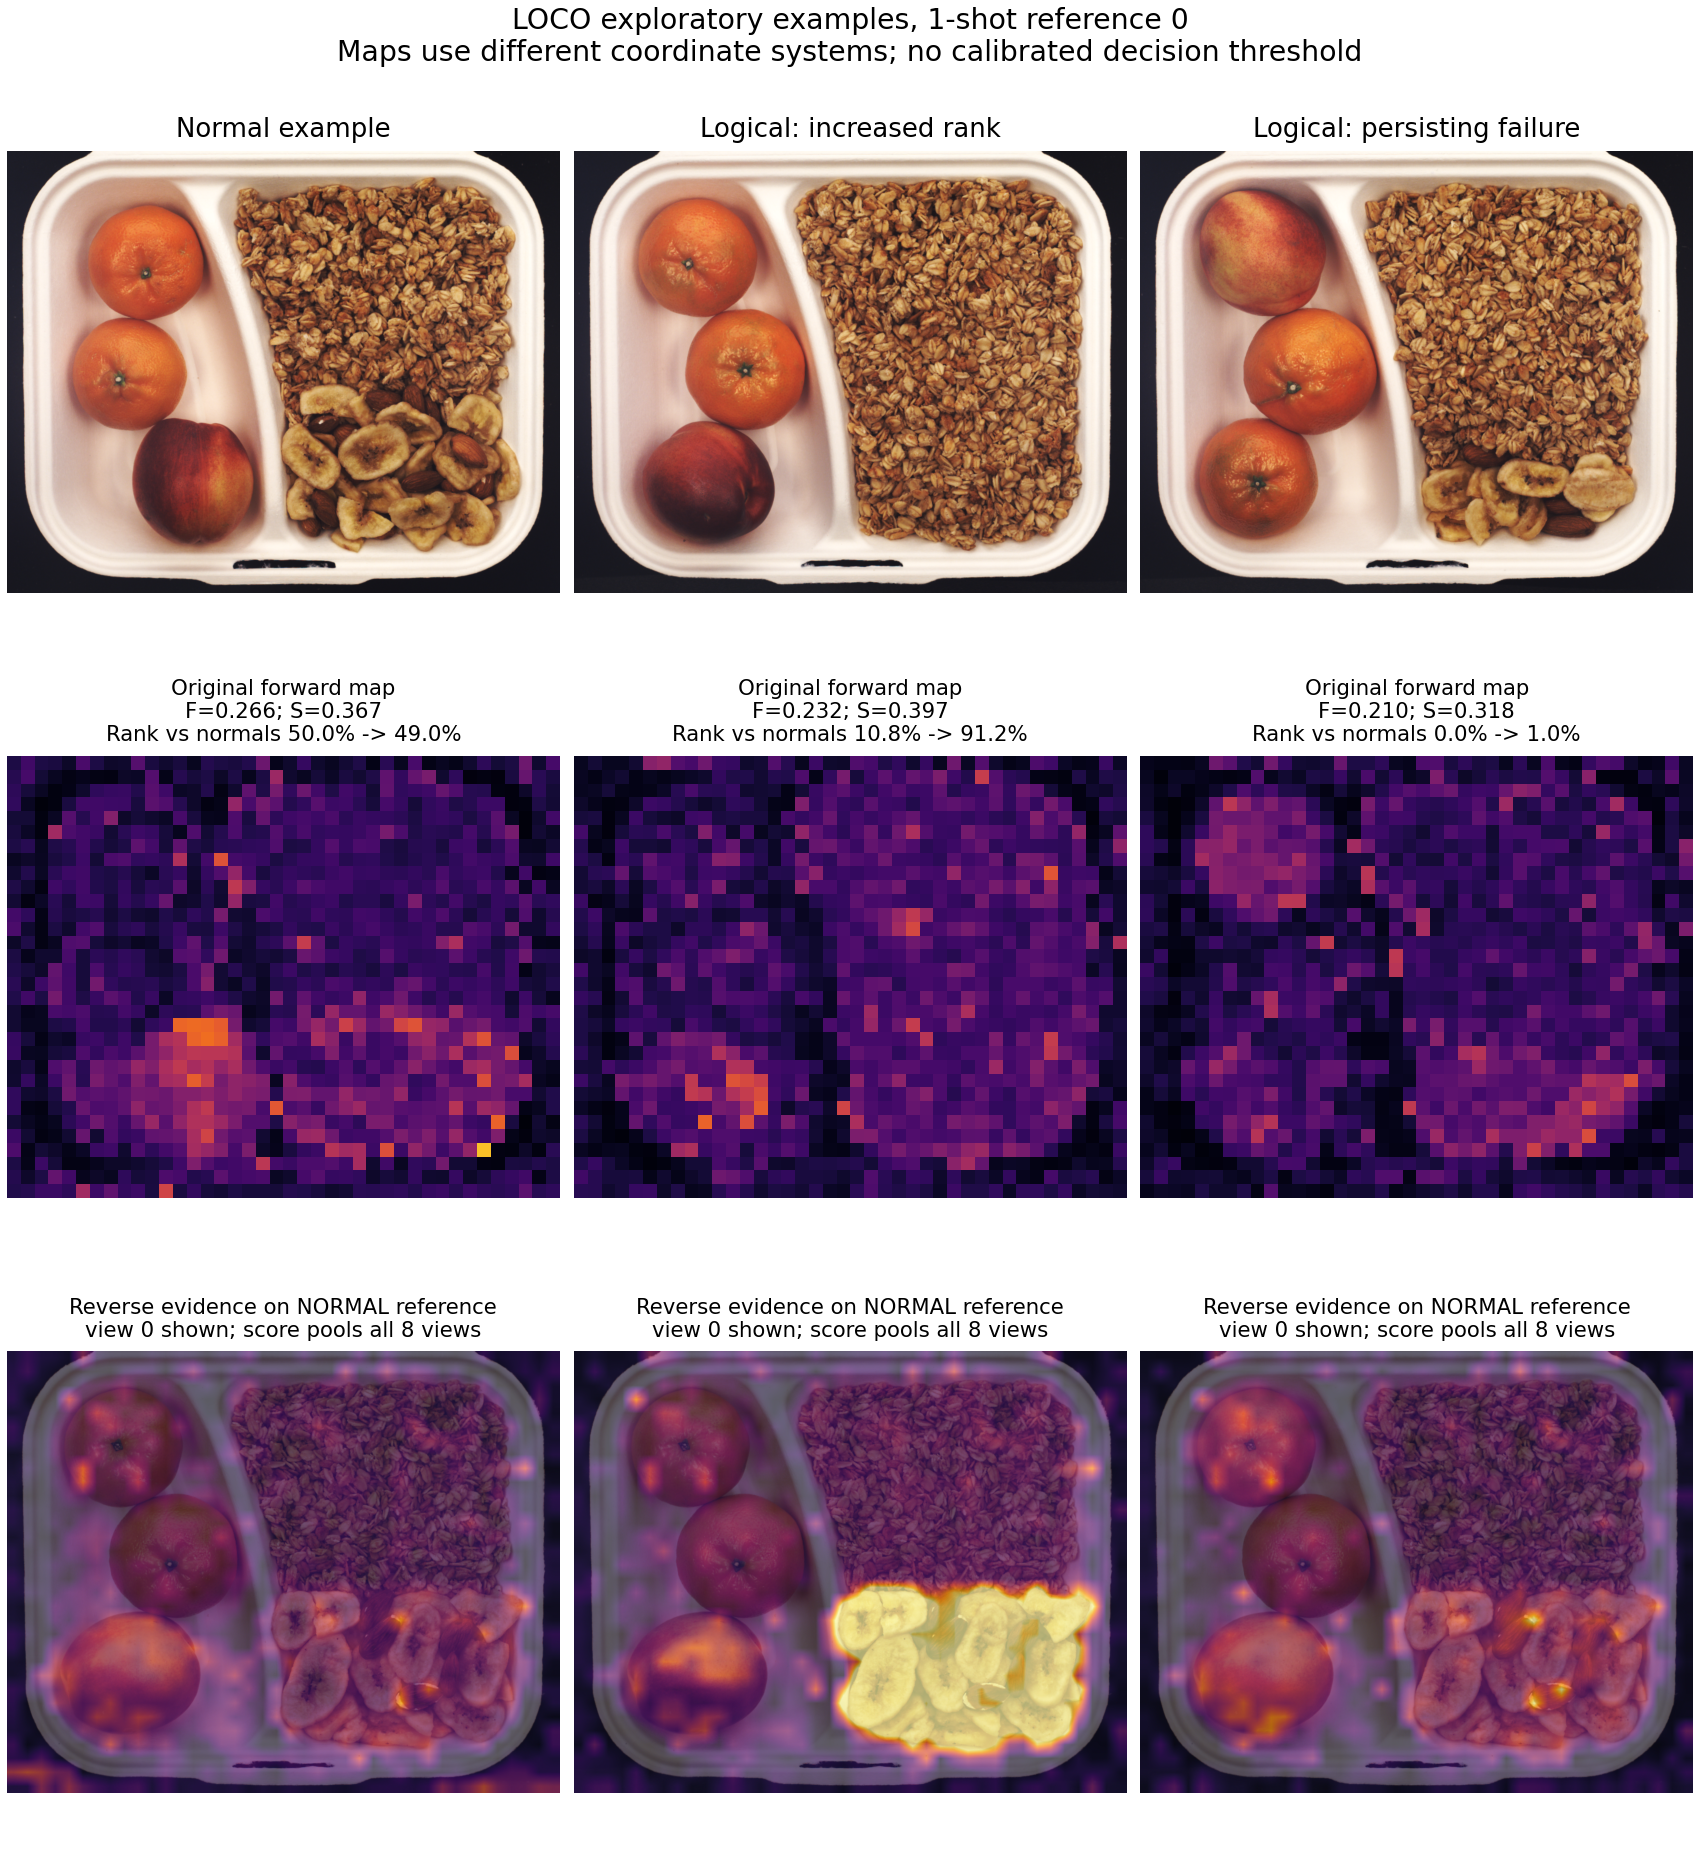
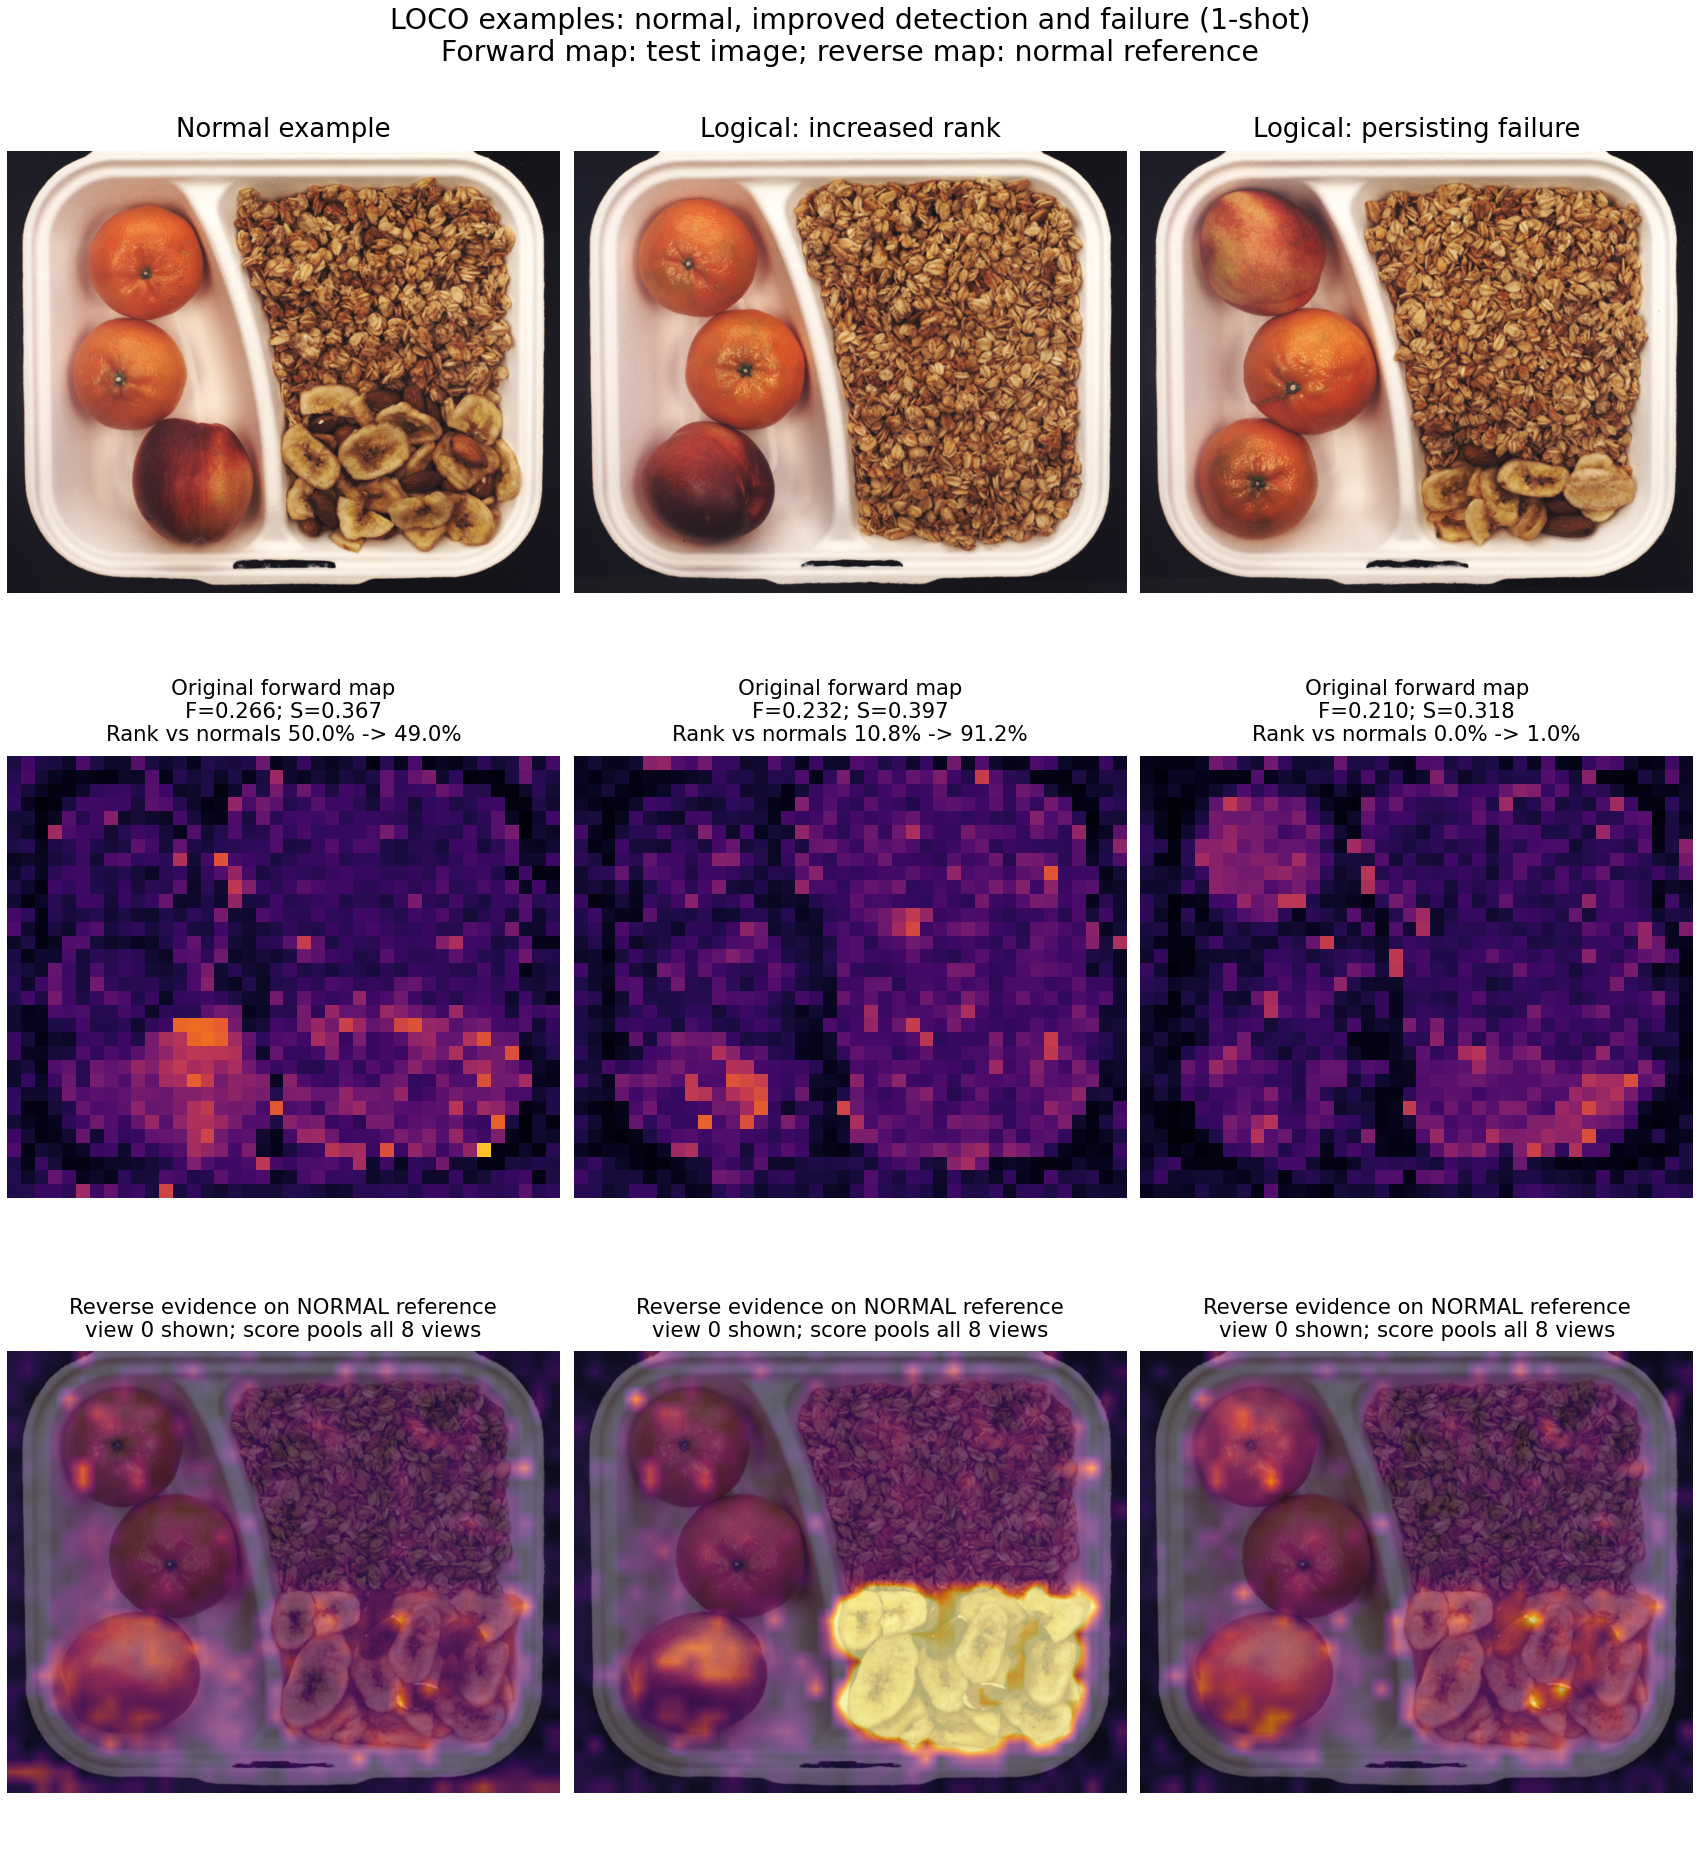
Clarify evaluation protocol and describe the foreground-coverage method

Changed region(s): [[0.2182, 0.0, 0.7794, 0.031]]

diff --git a/scripts/package_release.py b/scripts/package_release.py
@@ -1,5 +1,5 @@
 #!/usr/bin/env python3
-"""Package the V11-only project and verify every archived file."""
+"""Package the foreground-coverage project and verify every archived file."""
 import hashlib
 import json
 from pathlib import Path
@@ -19,11 +19,11 @@ def main():
                 "sha256": hashlib.sha256(p.read_bytes()).hexdigest()} for p in files]
     manifest = PROJECT / "PACKAGE_MANIFEST.json"
     manifest.write_text(json.dumps({"version": 11, "files": records,
-        "contents": "Final V11 implementation, baseline comparison, results, report and example bank only.",
+        "contents": "Foreground-consistent bidirectional coverage implementation, baseline comparison, results, report and example bank only.",
         "not_bundled": "Raw datasets, model weights and feature caches."}, indent=2) + "\n")
     dist = PROJECT / "dist"
     dist.mkdir(exist_ok=True)
-    archive = dist / "anomalydino-foreground-coverage-v11.zip"
+    archive = dist / "anomalydino-foreground-coverage.zip"
     with zipfile.ZipFile(archive, "w", compression=zipfile.ZIP_DEFLATED, compresslevel=6) as z:
         for p in files + [manifest]:
             z.write(p, str(p.relative_to(PROJECT)))

diff --git a/scripts/coverage_demo.py b/scripts/coverage_demo.py
@@ -1,5 +1,5 @@
 #!/usr/bin/env python3
-"""Build and run a frozen V11 detector using explicit normal images and raw queries."""
+"""Build and run a frozen foreground-coverage detector using explicit normal images and raw queries."""
 import argparse
 import json
 from pathlib import Path

diff --git a/scripts/summarize.py b/scripts/summarize.py
@@ -1,5 +1,5 @@
 #!/usr/bin/env python3
-"""Summarize V11 reference-level AUCs using equal class and reference weights."""
+"""Summarize reference-level AUCs using equal class and reference weights."""
 import argparse
 import csv
 from collections import defaultdict

diff --git a/scripts/extract_features.py b/scripts/extract_features.py
@@ -1,5 +1,5 @@
 #!/usr/bin/env python3
-"""Extract V11 features for selected normal references and the test images."""
+"""Extract frozen DINOv2 features for selected normal references and the test images."""
 import argparse
 import json
 from pathlib import Path

diff --git a/scripts/evaluate.py b/scripts/evaluate.py
@@ -1,5 +1,5 @@
 #!/usr/bin/env python3
-"""Evaluate only the original AnomalyDINO score and the final V11 score."""
+"""Evaluate only the original AnomalyDINO score and the foreground-coverage score."""
 import argparse
 import csv
 import json

diff --git a/docs/复现指南.md b/docs/复现指南.md
@@ -1,6 +1,6 @@
-# 第11版复现指南
+# AnomalyDINO前景一致双向覆盖：复现指南
 
-本目录仅含第11版方法及原版AnomalyDINO对照。原始数据、DINOv2权重和大型特征缓存不打包。现有结果来自2026-11-25已完成的实验；此次整理核对分数和指标一致性，没有重新跑完整实验或重新计时。
+本目录包含前景一致双向覆盖改进方案及原版AnomalyDINO对照。原始数据、DINOv2权重和大型特征缓存不打包。现有结果来自2026-11-25已完成的实验；此次整理核对分数和指标一致性，没有重新跑完整实验或重新计时。
 
 ## 1. 目录与环境
 
@@ -45,7 +45,7 @@ work/venv/bin/python "$P/scripts/coverage_demo.py" predict \
   --device cpu --output work/demo
 ```
 
-GPU环境可将device改为`cuda:0`；本服务器的GPU任务需在Slurm分配内运行。默认`--head coverage`为第11版，`--head baseline`为原版对照。输出连续分数和原版前向patch map，未标定二值通过/失败阈值。
+GPU环境可将device改为`cuda:0`；本服务器的GPU任务需在Slurm分配内运行。默认`--head coverage`为本改进方案，`--head baseline`为原版对照。输出连续分数和原版前向patch map，未标定二值通过/失败阈值。
 
 从原始正常图重新建库：
 
@@ -89,15 +89,15 @@ sbatch --partition=a100 --gres=gpu:1 --cpus-per-task=4 --mem=16G --time=00:30:00
   "$P/scripts/run_job.sh" evaluate "$P/configs/loco.json" "$P/results/reproductions/loco"
 ```
 
-其他数据集替换为mvtec.json、visa.json。loco_reference_audit.json对应额外正常参考组，测试图复用。各配置固定β=0.25、top1%，只评价原版和第11版。改变权重、预处理或分辨率时应更换缓存命名空间，避免混用缓存。
+其他数据集替换为mvtec.json、visa.json。loco_reference_audit.json对应固定评价图像、仅更换正常参考图的补充实验。各配置固定β=0.25、top1%，只评价原版和本改进方案。改变权重、预处理或分辨率时应更换缓存命名空间，避免混用缓存。
 
 ## 4. 结果文件与检查
 
 - main_results.csv：总体均值、三参考组标准差和差值；AUROC以百分数表示。
 - per_category.csv / per_reference.csv：逐类、逐参考组结果。
-- predictions/：每张图的标签、原版分数和第11版分数。
-- cost.csv / runtime_measurements.csv：既有第11版实现的成本汇总和逐次测量；整理后未重新计时。
-- metrics.json / provenance.json：完整统计、参考组无重叠检查、来源哈希和验证边界。
+- predictions/：每张图的标签、原版分数和本改进方案分数。
+- cost.csv / runtime_measurements.csv：本改进方案的成本汇总和逐次测量；整理后未重新计时。
+- metrics.json / provenance.json：完整统计、参考组无重叠检查、来源哈希和评测设置。
 
 ```bash
 work/venv/bin/python "$P/scripts/verify_release.py"
@@ -105,6 +105,6 @@ work/venv/bin/python "$P/scripts/verify_release.py"
 work/venv/bin/python "$P/scripts/verify_release.py" --cached-check
 ```
 
-当前结果在选定方案时被使用过；重新运行能复现结果，但不会把它们变成新的独立测试集。新增反向分数用于整图判断，返回的定位map仍来自原版前向距离。
+方法配置通过公开基准上的对比实验确定。复现时使用配置文件中记录的参考组、测试划分和评分参数。新增反向分数用于整图判断，返回的定位map仍来自原版前向距离。
 
 MVTec/LOCO数据及示例派生特征按CC BY-NC-SA 4.0署名；VisA按原数据许可署名；官方源码保留Apache 2.0许可。

diff --git a/deployment/README.md b/deployment/README.md
@@ -1,5 +1,5 @@
-# 第11版示例库
+# cable正常参考库示例
 
-cable_1shot由MVTec AD cable/train/good/000.png及8个旋转视图建立。默认用第11版coverage评分，β=0.25。用法见复现指南；模型权重和测试图需另外准备。
+cable_1shot由MVTec AD cable/train/good/000.png及8个旋转视图建立。默认使用双向覆盖评分（`coverage`），β=0.25。用法见复现指南；模型权重和测试图需另外准备。
 
 索引和前景标记保持已核对过的内容。此库为公开MVTec AD正常图片的特征派生物，按CC BY-NC-SA 4.0署名，用于研究与课程；数据归属MVTec及原论文作者。

diff --git a/vendor/AnomalyDINO/README.md b/vendor/AnomalyDINO/README.md
@@ -1,6 +1,6 @@
 # 官方基础代码
 
-仅保留第11版所需的图像预处理、DINOv2封装和PCA前景遮罩基础代码，文件来自AnomalyDINO官方仓库，未修改其实现。
+仅保留本改进方案所需的图像预处理、DINOv2封装和PCA前景遮罩基础代码，文件来自AnomalyDINO官方仓库，未修改其实现。
 
 来源：https://github.com/dammsi/AnomalyDINO
 commit：dd35b0f1f6ff6146d196fe4efd3457a58ebcb1e0
